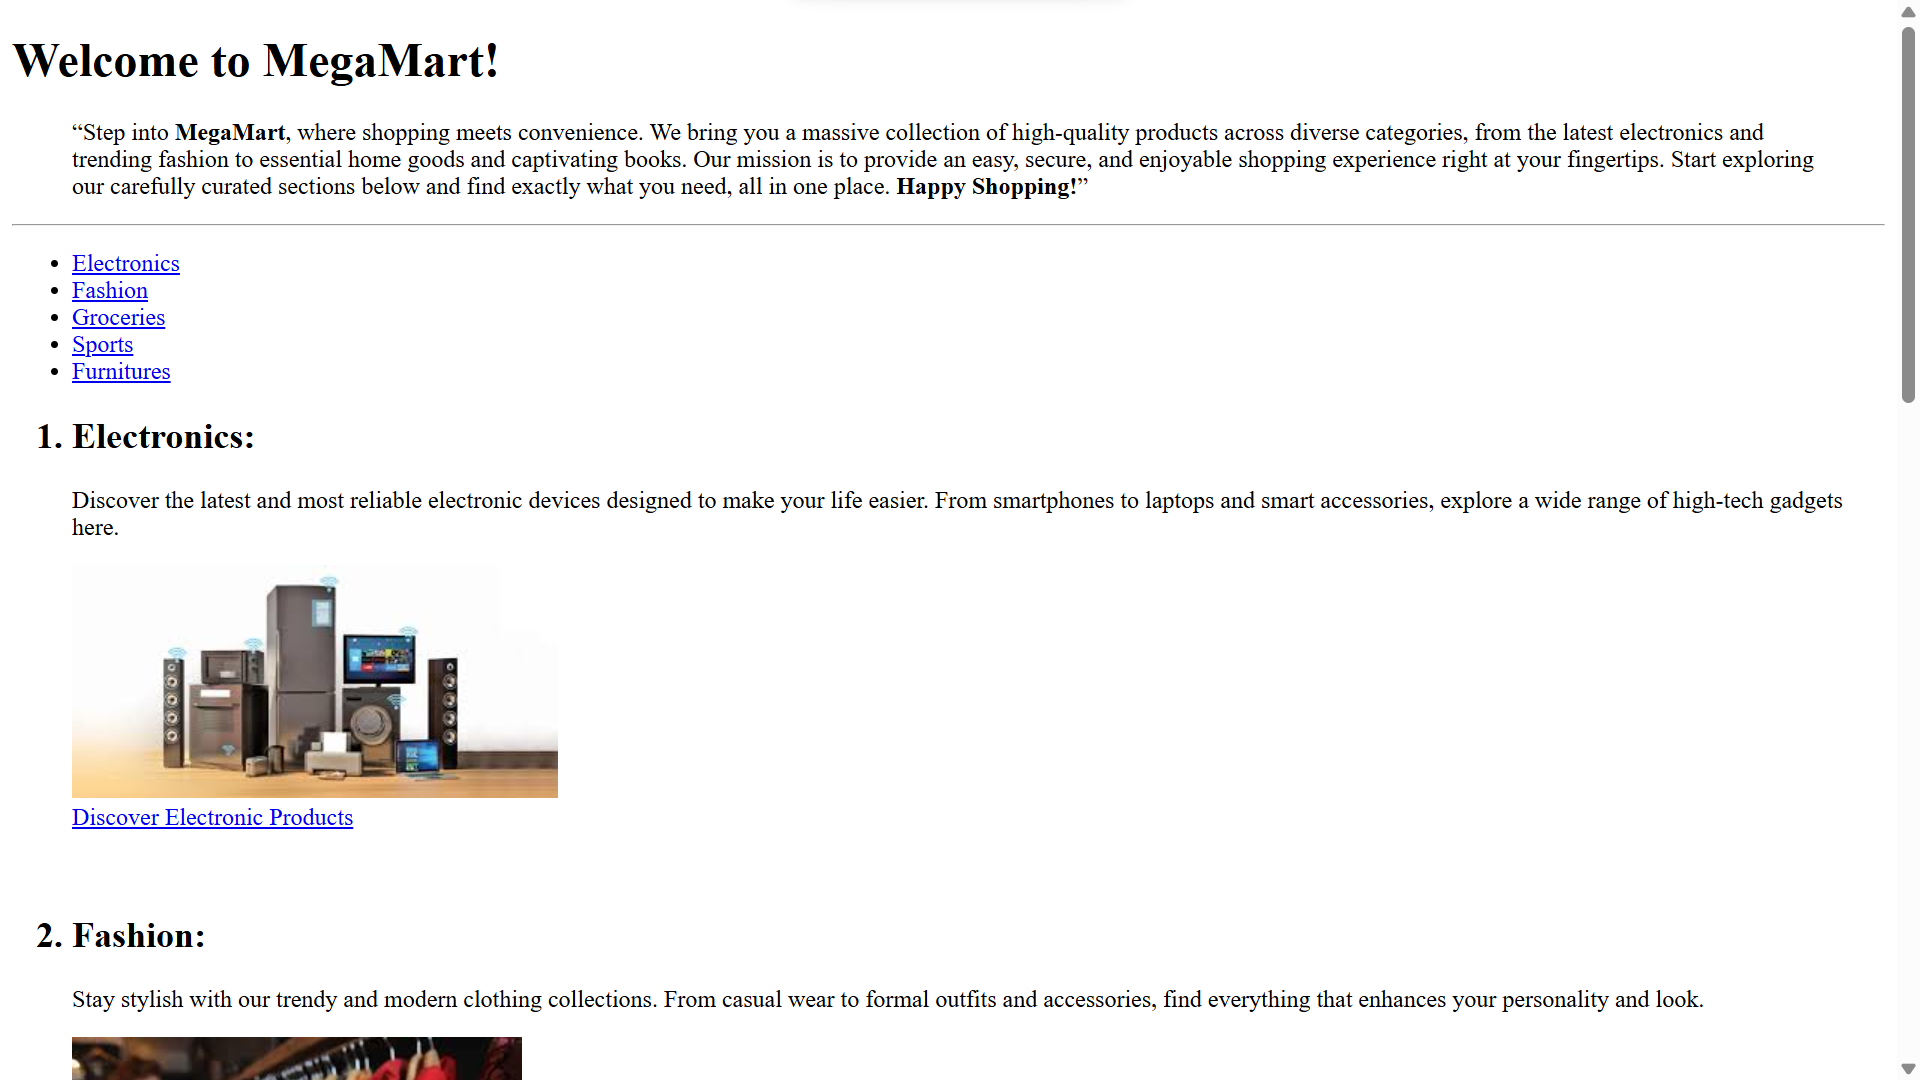
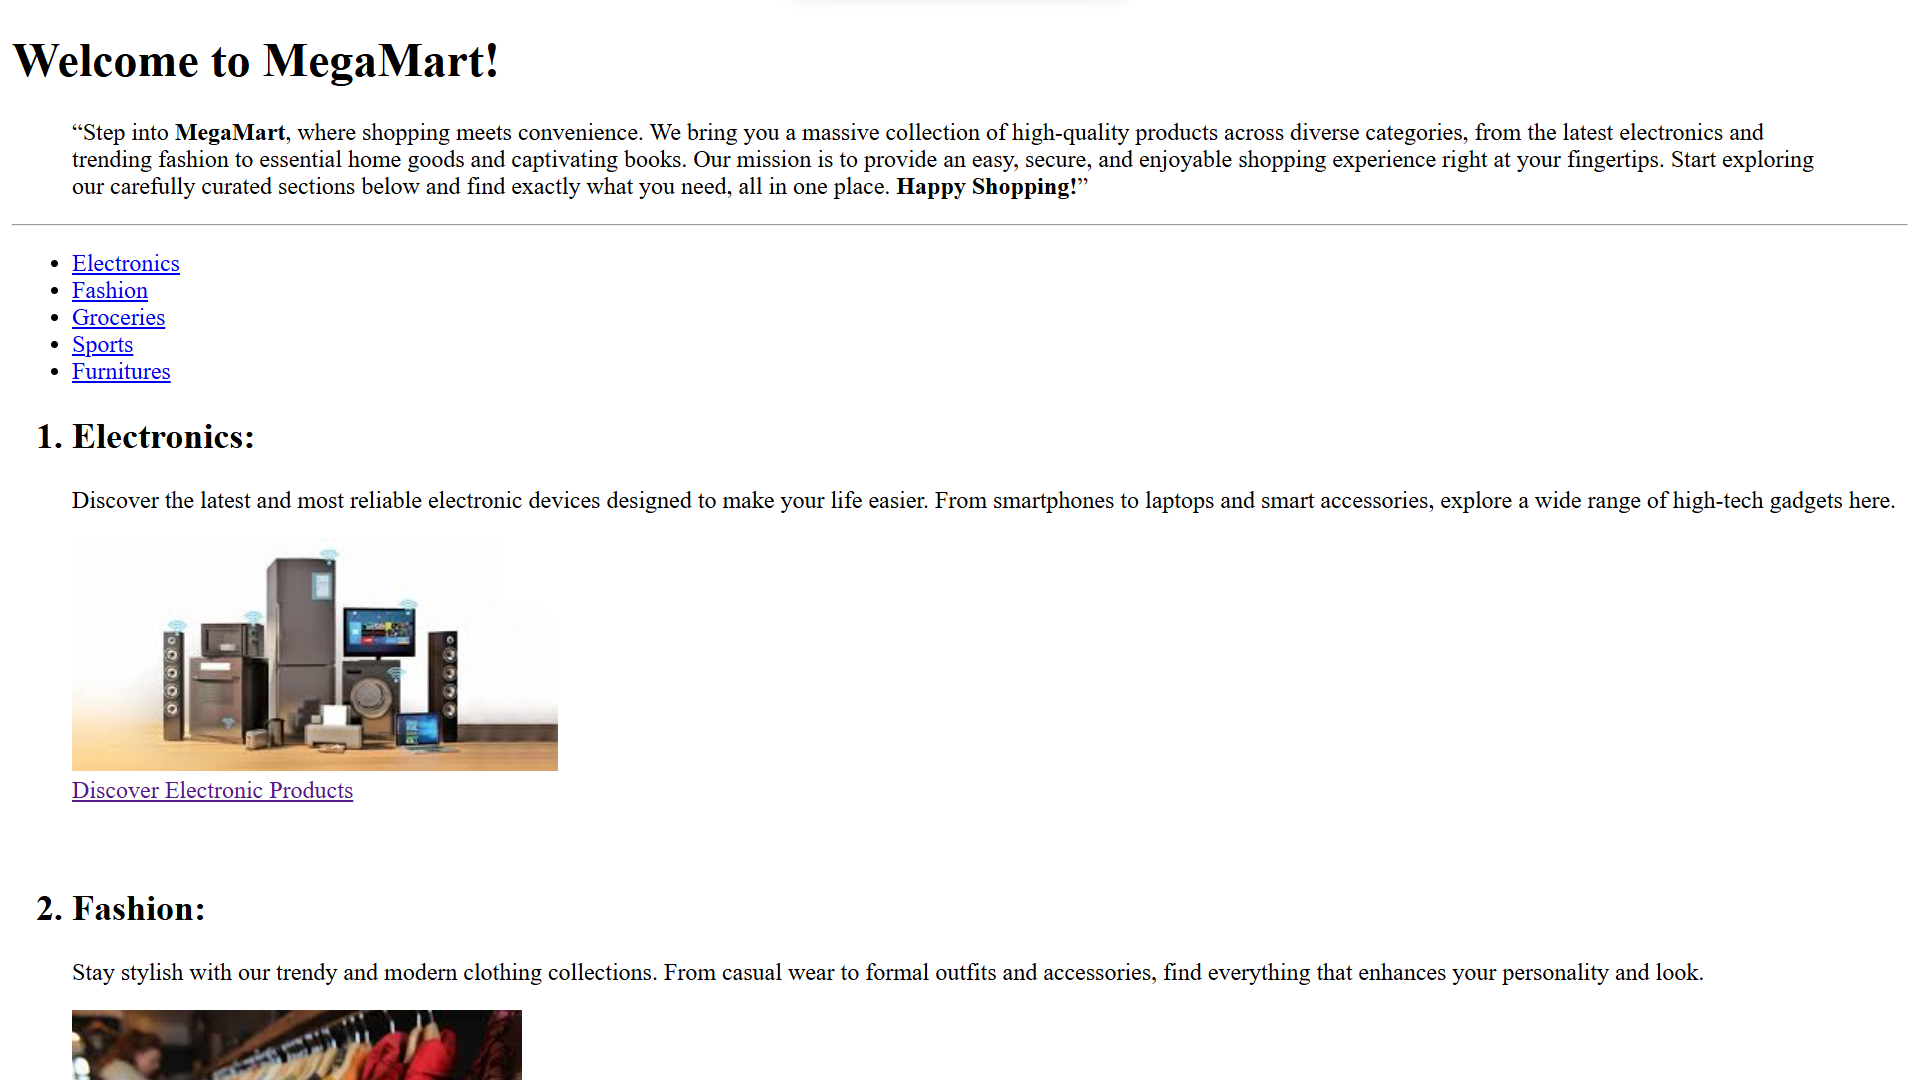
changes

diff --git a/script.js b/script.js
@@ -88,29 +88,9 @@ function displayProjects(projectsArr, projectsParent) {
     let projectHTML = document.createElement("div")
     projectHTML.classList.add("project-card")
 
-    if (project.technologies.includes("HTML")) {
-        var htmlBadge = `<span class="html">HTML</span>`
-    } else {
-        var htmlBadge = ""
-    }
-
-    if (project.technologies.includes("CSS")) {
-        var cssBadge = `<span class="css">CSS</span>`
-    } else {
-        var cssBadge = ""
-    }
-
-    if (project.technologies.includes("JavaScript")) {
-        var javascriptBadge = `<span class="javascript">JavaScript</span>`
-    } else {
-        var javascriptBadge = ""
-    }
-
-    if (project.technologies.includes("Bootstrap")) {
-        var bootstrapBadge = `<span class="bootstrap">Bootstrap</span>`
-    } else {
-        var bootstrapBadge = ""
-    }
+    let techBadges = project.technologies.map(tech => {
+        return `<span class="${tech.toLowerCase()}">${tech}</span>`
+    }).join("")
 
     projectHTML.innerHTML = `<div class="project-card-image">
                                 <img src=${project.image}>
@@ -119,10 +99,7 @@ function displayProjects(projectsArr, projectsParent) {
                                 <h2 class="project-title">${project.title}</h2>
                             <p class="project-description">${project.description}</p>
                             <div class="tech-badges">
-                                ${htmlBadge}
-                                ${cssBadge}
-                                ${javascriptBadge}
-                                ${bootstrapBadge}
+                                ${techBadges}
                             </div>
                             <div class="project-card-footer">
                                 <div class="hr-x"></div>
@@ -149,7 +126,7 @@ function activeLinkHanler(links, clickedLink) {
 
     if (clickedLink.innerText.toLowerCase() == "home") {
         window.scrollTo({
-            top: homeSection.offsetTop - 120
+            top: 0
         })
     } else if (clickedLink.innerText.toLowerCase() == "about") {
         window.scrollTo({
@@ -186,7 +163,7 @@ function activeLinkOnScroll() {
             })
             navLinks[1].classList.add("active")
             mobileMenuLinks[1].classList.add("active")
-        } else if (window.scrollY >= projectsSection.offsetTop - 120 && window.scrollY < contactSection.offsetTop - 300) {
+        } else if (window.scrollY >= projectsSection.offsetTop - 120 && window.scrollY < contactSection.offsetTop - 600) {
             navLinks.forEach(link => {
                 link.classList.remove("active")
             })
@@ -195,7 +172,7 @@ function activeLinkOnScroll() {
             })
             navLinks[2].classList.add("active")
             mobileMenuLinks[2].classList.add("active")
-        } else if (window.scrollY > contactSection.offsetTop - 300) {
+        } else if (window.scrollY > contactSection.offsetTop - 600) {
             navLinks.forEach(link => {
                 link.classList.remove("active")
             })
@@ -205,7 +182,7 @@ function activeLinkOnScroll() {
             navLinks[3].classList.add("active")
             mobileMenuLinks[3].classList.add("active")
         }
-    }, 600);
+    }, 650);
 }
 activeLinkOnScroll()
 
@@ -242,4 +219,4 @@ scrollTopBtn.addEventListener("click", () => window.scrollTo({ top: 0 }))
 
 viewProjectsCta.addEventListener("click", () => window.scrollTo({ top: projectsSection.offsetTop - 120 }))
 
-contactMeCta.addEventListener("click", () => window.scrollTo({ top: contactSection.offsetTop }))
+contactMeCta.addEventListener("click", () => window.scrollTo({ top: contactSection.offsetTop - 120 }))

diff --git a/style.css b/style.css
@@ -25,7 +25,7 @@
 
     --navbar-border: 1.5px solid #172133;
     --section-border: 1.5px solid #152338;
-    --project-card-border: 2px solid #1A2438;
+    --project-card-border: 1.5px solid #1A2438;
 }
 
 * {
@@ -34,6 +34,7 @@
     box-sizing: border-box;
     font-family: 'Poppins', sans-serif;
     scroll-behavior: smooth;
+    scrollbar-width: thin;
 }
 
 body {
@@ -314,6 +315,7 @@ section {
 .hero-section .btns .view-project-btn {
     background-color: var(--view-project-btn-bg);
     border: var(--navbar-border);
+    border-color: var(--view-project-btn-bg);
 }
 
 .hero-section .btns .view-project-btn:hover {
@@ -350,7 +352,6 @@ section {
 .navbar .mobile-menu .social-links a:hover {
     color: var(--primary-text);
 }
-
 
 /* About Section */
 
@@ -425,7 +426,7 @@ section {
 
 .about-section>div .skills div span {
     border: var(--navbar-border);
-    background-color: var(--navbar-bg);
+    background-color: transparent;
     display: flex;
     align-items: center;
     justify-content: center;
@@ -757,6 +758,7 @@ section {
         width: 100%;
         padding: 22px 18px;
         border-width: 1.5px 0;
+        margin-top: 30px;
         border-radius: 0;
     }
 
@@ -804,6 +806,15 @@ section {
     .about-section>div .about,
     .about-section>div .skills {
         width: 100%;
+    }
+
+    .project-cards .project-card {
+        height: auto;
+        padding-bottom: 55px;
+    }
+
+    .project-cards .project-card .project-card-info .project-description {
+        min-height: fit-content;
     }
 
     .contact-section .right {

diff --git a/index.html b/index.html
@@ -164,14 +164,14 @@
         <section class="contact-section" id="contact">
             <div class="left">
                 <div class="title"><span></span> Get in touch</div>
-                <h2 class="heading">Contct Me</h2>
+                <h2 class="heading">Contact Me</h2>
                 <p>Feel free to reach out to me for a collaborations or just a friendly hello.</p>
             </div>
             <div class="right">
                 <div>
                     <i class="fa-regular fa-envelope"></i>
                     <h3>Email</h3>
-                    <a href="mailto:shariq3072007@gmil.com" target="_blank">shariq3072007@gmail.com</a>
+                    <a href="mailto:shariq3072007@gmail.com" target="_blank">shariq3072007@gmail.com</a>
                 </div>
                 <div>
                     <i class="fa-brands fa-linkedin-in"></i>
